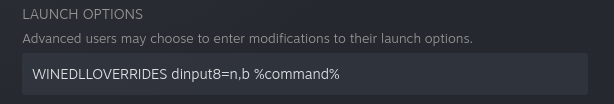
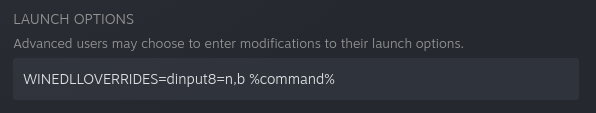
Fix dll override command

Changed region(s): [[0.0, 0.3173, 0.7852, 0.4615], [0.0302, 0.6346, 0.5738, 0.7788], [0.0, 0.0865, 0.2416, 0.2308]]

diff --git a/README.md b/README.md
@@ -70,7 +70,7 @@ mods/menu/03_202_bonfire.gfx
 mods/menu/05_000_title.gfx
 mods/menu/05_900_logo_fromsoft.gfx
 ```
-The last step is actually activating the mod loader. It is loaded through `dinput8.dll`, but by default Wine will use its own version, not the one in the game folder. To get Wine to actually use it, you need to set a DLL override. With Steam, this is easy to do: set the launch options to `WINEDLLOVERRIDES dinput8=n,b %command%`.
+The last step is actually activating the mod loader. It is loaded through `dinput8.dll`, but by default Wine will use its own version, not the one in the game folder. To get Wine to actually use it, you need to set a DLL override. With Steam, this is easy to do: set the launch options to `WINEDLLOVERRIDES=dinput8=n,b %command%`.
 ![DLL override example](override.png)
 ##### 16:10
 Unfortunately, there is no mod that fixes the UI for 16:10, so Steam Deck users are out of luck.
